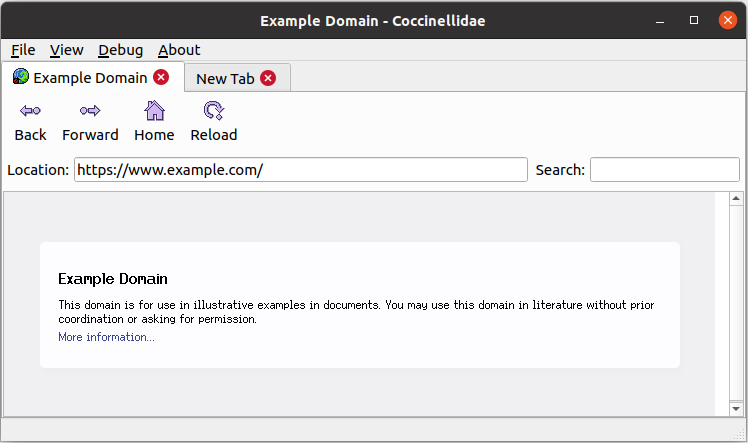
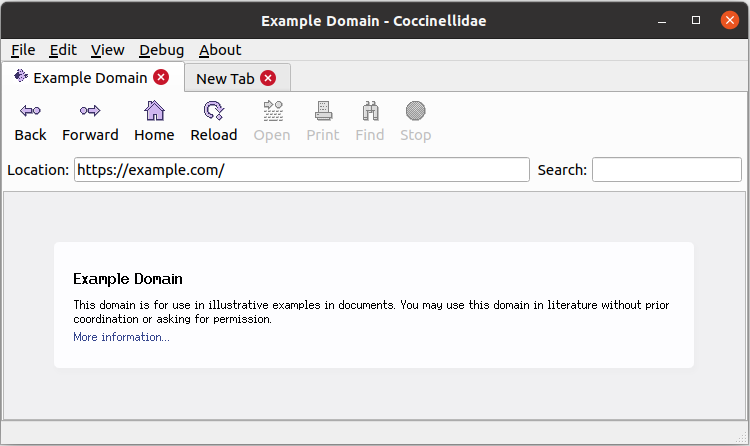
Edit menu with placeholder values, update screenshot, update readme

diff --git a/BrowserWindow.cpp b/BrowserWindow.cpp
@@ -27,12 +27,30 @@ BrowserWindow::BrowserWindow(Core::EventLoop& event_loop)
     auto* menu = menuBar()->addMenu("&File");
 
     auto* new_tab_action = new QAction("New &Tab");
+    new_tab_action->setIcon(QIcon(QString("%1/res/icons/16x16/new-tab.png").arg(s_serenity_resource_root.characters())));
     new_tab_action->setShortcut(QKeySequence(QKeySequence::AddTab)); // "Ctrl+N"
     menu->addAction(new_tab_action);
 
     auto* quit_action = new QAction("&Quit");
     quit_action->setShortcut(QKeySequence("Ctrl+Q"));
     menu->addAction(quit_action);
+
+    auto* edit_menu = menuBar()->addMenu("&Edit");
+
+    auto* cut_action = new QAction("Cut");
+    cut_action->setIcon(QIcon(QString("%1/res/icons/16x16/edit-cut.png").arg(s_serenity_resource_root.characters())));
+    cut_action->setShortcut(QKeySequence(QKeySequence::Cut));
+    edit_menu->addAction(cut_action);
+
+    auto* copy_action = new QAction("Copy");
+    copy_action->setIcon(QIcon(QString("%1/res/icons/16x16/edit-copy.png").arg(s_serenity_resource_root.characters())));
+    copy_action->setShortcut(QKeySequence(QKeySequence::Copy));
+    edit_menu->addAction(copy_action);
+
+    auto* paste_action = new QAction("Paste");
+    paste_action->setIcon(QIcon(QString("%1/res/icons/16x16/paste.png").arg(s_serenity_resource_root.characters())));
+    paste_action->setShortcut(QKeySequence(QKeySequence::Paste));
+    edit_menu->addAction(paste_action);
 
     auto* inspect_menu = menuBar()->addMenu("&View");
 
@@ -156,6 +174,7 @@ BrowserWindow::BrowserWindow(Core::EventLoop& event_loop)
     about_menu->addAction(help_action);
 
     auto* about_action = new QAction("&About Coccinellidae");
+    about_action->setIcon(QIcon(QString("../icons/app-coccinellidae.png")));
     about_menu->addAction(about_action);
 
 

diff --git a/WebView.cpp b/WebView.cpp
@@ -604,7 +604,9 @@ void initialize_web_engine()
     Web::ResourceLoader::initialize(RequestManagerQt::create());
     Web::WebSockets::WebSocketClientManager::initialize(HeadlessWebSocketClientManager::create());
 
-    Web::FrameLoader::set_default_favicon_path(String::formatted("{}/res/icons/16x16/app-browser.png", s_serenity_resource_root));
+    //Web::FrameLoader::set_default_favicon_path(String::formatted("{}/res/icons/16x16/app-browser.png", s_serenity_resource_root));
+    Web::FrameLoader::set_default_favicon_path("../icons/app-coccinellidae-bg.png");
+
     dbgln("Set favicon path to {}", String::formatted("{}/res/icons/16x16/app-browser.png", s_serenity_resource_root));
 
     Gfx::FontDatabase::set_default_fonts_lookup_path(String::formatted("{}/res/fonts", s_serenity_resource_root));

diff --git a/Tab.cpp b/Tab.cpp
@@ -19,7 +19,7 @@ Tab::Tab(QMainWindow* window)
 {
     m_layout = new QBoxLayout(QBoxLayout::Direction::TopToBottom, this);
     m_layout->setContentsMargins(0, 0, 0, 0);
-    m_layout->setSpacing(0); //FIXME: Need to set spacing to 0 between QToolBar & QToolBar :^)
+    m_layout->setSpacing(0);
 
     m_view = new WebView;
     m_toolbar = new QToolBar;

diff --git a/README.md b/README.md
@@ -21,6 +21,9 @@ Menu:
 - [ ] About: Help
 - [ ] About: About Coccinellidae
 
+### Build instructions
+Same as [Ladybird](https://github.com/awesomekling/ladybird) but using Qt5 & Qt5 Wayland (Ubuntu 20.04: `qt5-default` & `qtwayland5`)
+
 ### This is what I'm going for:
 
 ![Icons](meta/icons.png)
